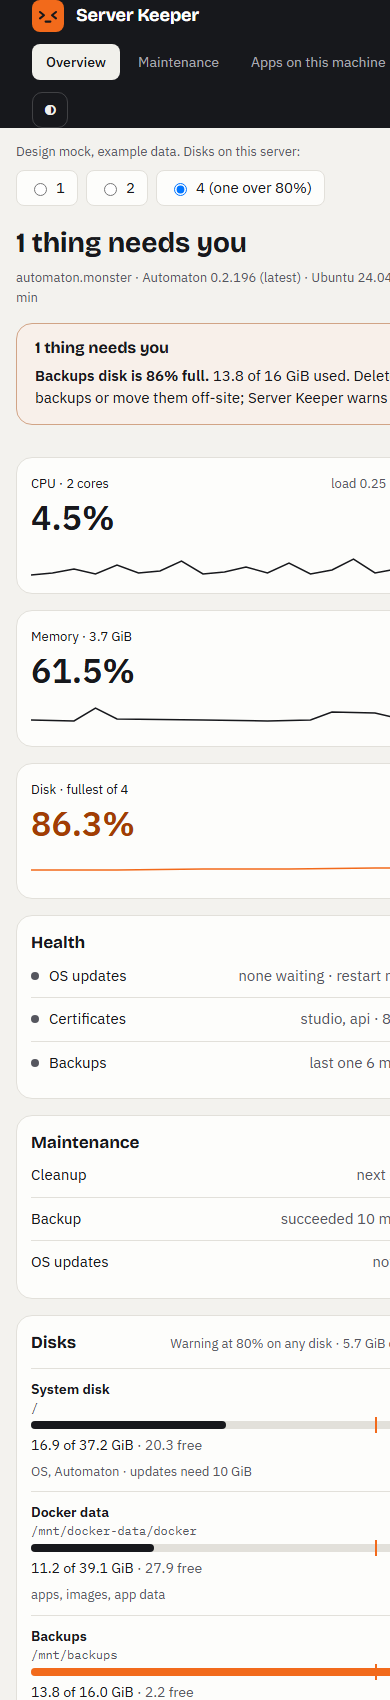
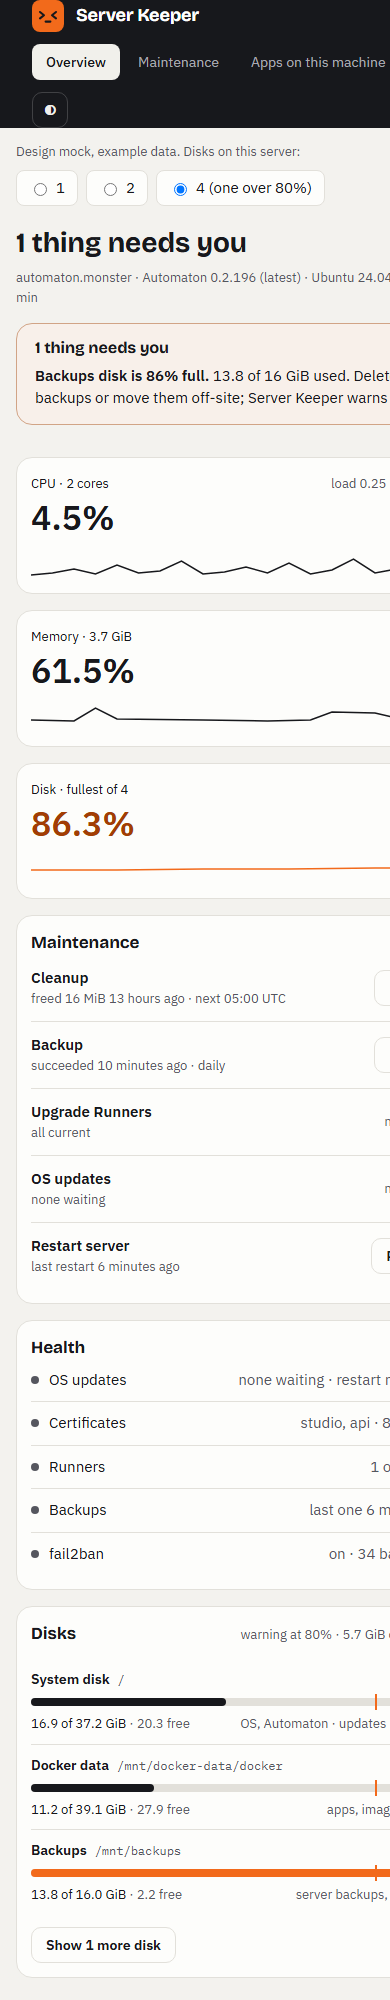
Disks layout: Maintenance left, Health over Disks right

diff --git a/docs/design/mocks/server-keeper-disks-layout.html b/docs/design/mocks/server-keeper-disks-layout.html
@@ -356,6 +356,17 @@ body{background:var(--bg)}
   .disk__name{grid-area:name}.disk__pct{grid-area:pct}.bar{grid-area:bar}.disk__size{grid-area:size}.more{margin-top:12px}
 .disk__holds{grid-area:holds}
 }
+
+/* v4: lower area = Maintenance (left, its buttons always in view) | Health over Disks (right). Disk lines are compact. */
+.lower{display:grid;grid-template-columns:minmax(0,1fr) minmax(0,1fr);gap:16px;align-items:start}
+.side{display:flex;flex-direction:column;gap:16px;min-width:0}
+.mrow{display:flex;align-items:center;justify-content:space-between;gap:12px;padding:12px 0;border-top:1px solid var(--border)}
+.a-card__title+.mrow{border-top:0}
+.disk{display:grid;grid-template-columns:minmax(0,1fr) auto;grid-template-areas:"name pct" "bar bar" "size holds";gap:4px 12px;padding:10px 0;border-top:1px solid var(--border);align-items:center}
+.disk__name{grid-area:name;display:flex;gap:8px;align-items:baseline;min-width:0}.disk__name code{display:inline}
+.disk__pct{grid-area:pct}.bar{grid-area:bar;margin:4px 0}.disk__size{grid-area:size;font-size:13px}.disk__holds{grid-area:holds;text-align:right;overflow:hidden;text-overflow:ellipsis;white-space:nowrap}
+.disks .a-card__head+div .disk:first-child{border-top:0}
+@media (max-width:860px){.lower{grid-template-columns:1fr}}
 </style>
 <header class="a-topbar">
   <div class="a-topbar__inner">
@@ -415,30 +426,30 @@ body{background:var(--bg)}
 
 
   <div class="lower">
-    <div class="a-card">
-      <h3 class="a-card__title">Health</h3>
-      <div class="hrow"><span class="dot"></span>OS updates<span class="a-muted">none waiting · restart not needed</span></div>
-      <div class="hrow"><span class="dot"></span>Certificates<span class="a-muted">studio, api · 80 days left</span></div>
-      <div class="hrow"><span class="dot"></span>Backups<span class="a-muted">last one 6 minutes ago</span></div>
-    </div>
-    <div class="a-card">
-      <h3 class="a-card__title">Maintenance</h3>
-      <div class="hrow">Cleanup<span class="a-muted">next 05:00 UTC</span></div>
-      <div class="hrow">Backup<span class="a-muted">succeeded 10 minutes ago</span></div>
-      <div class="hrow">OS updates<span class="a-muted">nothing to do</span></div>
+    <section class="a-card" aria-labelledby="mt">
+      <h3 class="a-card__title" id="mt">Maintenance</h3>
+      <div class="mrow"><div><b>Cleanup</b><div class="a-muted small">freed 16 MiB 13 hours ago · next 05:00 UTC</div></div><button class="a-btn" type="button">Run now</button></div>
+      <div class="mrow"><div><b>Backup</b><div class="a-muted small">succeeded 10 minutes ago · daily</div></div><button class="a-btn" type="button">Run now</button></div>
+      <div class="mrow"><div><b>Upgrade Runners</b><div class="a-muted small">all current</div></div><span class="a-muted small">nothing to do</span></div>
+      <div class="mrow"><div><b>OS updates</b><div class="a-muted small">none waiting</div></div><span class="a-muted small">nothing to do</span></div>
+      <div class="mrow"><div><b>Restart server</b><div class="a-muted small">last restart 6 minutes ago</div></div><button class="a-btn" type="button">Restart&hellip;</button></div>
+    </section>
+    <div class="side">
+      <section class="a-card" aria-labelledby="ht">
+        <h3 class="a-card__title" id="ht">Health</h3>
+        <div class="hrow"><span class="dot"></span>OS updates<span class="a-muted">none waiting · restart not needed</span></div>
+        <div class="hrow"><span class="dot"></span>Certificates<span class="a-muted">studio, api · 80 days left</span></div>
+        <div class="hrow"><span class="dot"></span>Runners<span class="a-muted">1 of 1 current</span></div>
+        <div class="hrow"><span class="dot"></span>Backups<span class="a-muted">last one 6 minutes ago</span></div>
+        <div class="hrow"><span class="dot"></span>fail2ban<span class="a-muted">on · 34 bans in 24 h</span></div>
+      </section>
+      <section class="a-card disks" aria-labelledby="disks-title">
+        <div class="a-card__head"><h3 class="a-card__title" id="disks-title">Disks</h3><span class="a-muted small">warning at 80% · 5.7 GiB can be freed</span></div>
+        <div id="disk-rows"></div>
+        <button type="button" class="a-btn more" id="more" hidden></button>
+      </section>
     </div>
   </div>
-  <section class="a-card disks" aria-labelledby="disks-title">
-    <div class="a-card__head">
-      <h3 class="a-card__title" id="disks-title">Disks</h3>
-      <span class="a-muted small" id="disks-foot">Warning at 80% on any disk · 5.7 GiB can be freed</span>
-    </div>
-    <div class="disk disk--head" aria-hidden="true">
-      <span>Disk</span><span>Used</span><span></span><span class="num">Size</span><span>Holds</span>
-    </div>
-    <div id="disk-rows"></div>
-    <button type="button" class="a-btn more" id="more" hidden></button>
-  </section>
 </main>
 <script>
 (function(){
